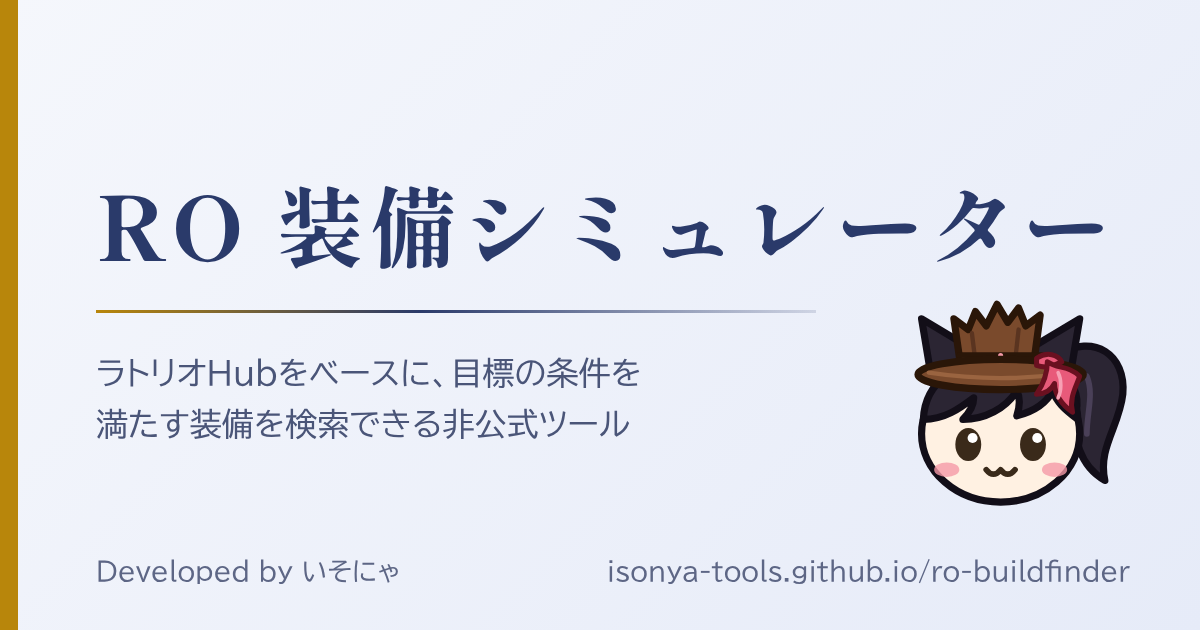
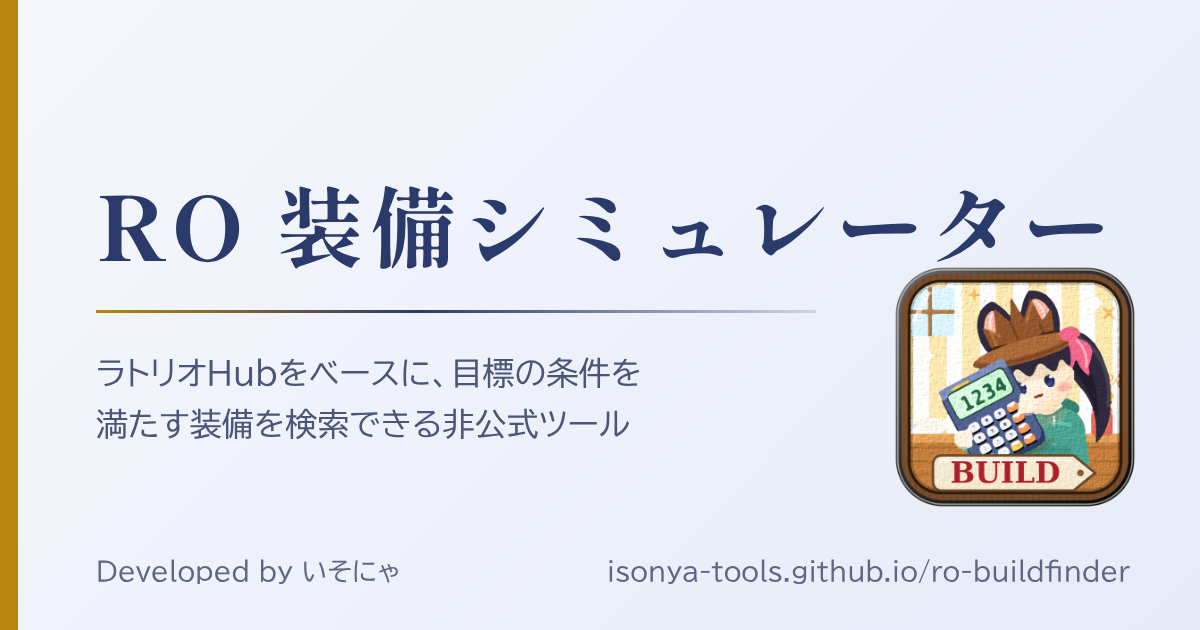
ファビコン・OG画像・apple-touch-iconを新アイコンに差し替え
Claude-Session: https://claude.ai/code/session_01CzAh1ozvSVrjmkudikAzHt

Changed region(s): [[0.74, 0.4222, 0.9558, 0.8143]]

diff --git a/index.html b/index.html
@@ -11,12 +11,13 @@
 	<meta property="og:title" content="RO 装備シミュレーター">
 	<meta property="og:description" content="ラトリオHubをベースに、目標の条件を満たす装備を検索できる非公式ツール">
 	<meta property="og:url" content="https://isonya-tools.github.io/ro-buildfinder/">
-	<meta property="og:image" content="https://isonya-tools.github.io/ro-buildfinder/og.png?v=20261022">
+	<meta property="og:image" content="https://isonya-tools.github.io/ro-buildfinder/og.png?v=20261024">
 	<meta property="og:image:width" content="1200">
 	<meta property="og:image:height" content="630">
 	<meta name="twitter:card" content="summary_large_image">
-	<meta name="twitter:image" content="https://isonya-tools.github.io/ro-buildfinder/og.png?v=20261022">
-	<link rel="icon" href="../../favicon.svg" type="image/svg+xml">
+	<meta name="twitter:image" content="https://isonya-tools.github.io/ro-buildfinder/og.png?v=20261024">
+	<link rel="icon" href="../../favicon.png" type="image/png" sizes="64x64">
+	<link rel="icon" href="../../favicon.ico" sizes="any">
 	<link rel="apple-touch-icon" href="../../apple-touch-icon.png">
 
 
